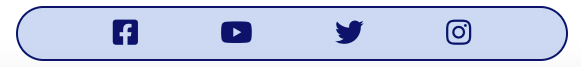
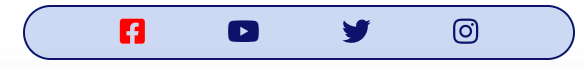
README - Finish documentation.

diff --git a/README.md b/README.md
@@ -1,6 +1,6 @@
 # The Iowa State Fair
 
-This Iowa State Fair website is intended to give Iowans, Americans and potential visitors from abroad an overview of one of the United States' most renowned agricultural events. This Midwest state boasts achievement in agriculture and industry, which my website hopes to display.
+This Iowa State Fair website is intended to give Iowans, Americans and potential visitors from abroad an overview of one of the United States' most renowned agricultural events. This Midwest state boasts achievement in agriculture and industry, which this website hopes to showcase.
 
 In three separate pages, the user will learn what the Iowa State Fair is, its location, a brief history and fun facts, and a photo gallery of Fair favorites. There is also a signup form allowing the visitor to get involved with the Iowa State Fair. I hope, as the website creator and Iowa-native, that these pages teach users a little bit about Iowa and entice them to come join the fun at the Iowa State Fair. 
 
@@ -8,14 +8,14 @@ In three separate pages, the user will learn what the Iowa State Fair is, its lo
 
 ## Features 
 
-In general terms, the features of this website serve two main purposes: to educate visitors about the Iowa State Fair and to entice them to visit. A more detailed explanation of the features is below.
+In general terms, the features of this website serve two main purposes: to educate visitors about the Iowa State Fair and to persuade them to visit. A more detailed explanation of the features is below.
 
 ### Existing Features
 
 - __Navigation Bar__
 
-  - The fully responsive navigation bar is included and identical on all three pages. Clicking each link will take the user to that page; clicking the left, Iowa State Fair text will return them to the homepage.
-  - Keeping the navigation bar the same on all pages, both in style and functionality will enable the user to navigate the pages easily and on various devices without having to click the back button or swipe left / right.
+  - The fully responsive navigation bar is included and identical on all three pages. Clicking each link will take the user to that page, while clicking the left, Iowa State Fair text will return them to the homepage.
+  - Keeping the navigation bar the same on all pages, both in style and functionality, will enable the user to browse through the pages easily and on various devices without having to click the back button or swipe left / right.
 
 ![NavBar](docs/nav_bar_mockup.png)
 
@@ -25,36 +25,36 @@ In general terms, the features of this website serve two main purposes: to educa
 
 ![LandingPage](docs/landing_page_mockup.png)
 
-- __When and Where Section
+- When and Where Section
 
   - The start of this section includes a sentence describing what, when and where the Iowa State Fair is and its importance on a state, national and international scale. 
-  - Immediately following, users can see dates and times of the 2022 Iowa State Fair as well as a short list of activities they can expect to find at the Fair. In the center, this year's Iowa State Fair logo appears to bifurcate the written information in the section.  
+  - Immediately following, users can see dates and times for the 2022 Iowa State Fair as well as a short list of activities they can expect to find at the Fair. In the center, this year's Iowa State Fair logo appears and bifurcates the written information in the section.  
 
 ![WhenWhere](docs/when_where_mockup.png)
 
 - __Location section__
 
-  - Here on a photo of the Iowa State Capitol, the user learns that the Fair takes place in Des Moines, Iowa (the capital city) and there are various modes of transport to arrive at the fairgrounds. The image is covered by an opaque shadow, thus ensuring the user is focused on the information text and not the photo. 
+  - Here on a photo of the Iowa State Capitol, the user learns that the Fair takes place in Des Moines, Iowa (the capital city) and there are various modes of transport to arrive at the fairgrounds. The image is covered by an opaque shadow, thus ensuring the user is focused on the informational text and not the photo. 
 
 ![Location](docs/location_mockup.png)
 
 - __The Footer__ 
 
   - In the footer section I've included links to four prominent social media sites for the Iowa State Fair. These are real websites that will give the user more information and the ability to follow the Iowa State Fair's social media.
-  - All links open to new tabs when clicked and turn red when hovered over, making them easily visible and user-friendly.
+  - All links open to new tabs when clicked and the icons turn red when hovered over, making them easily visible and user-friendly.
 
 ![Footer](docs/footer_mockup.png)
 
 - __History__
 
-  - The history section includes four columns: what's new, the butter cow, food on sticks and five fun facts. These different categories all provide important information for Fair-goers this year, both those returning and first-timers. 
+  - The history section includes four columns with different categories providing important information for Fair-goers this year, both those returning and first-timers. 
   - For website users that are hearing about the Iowa State Fair for the first time, this page will give them a little insight on the event. As such, there are two clickable links included in this section to give further explanation, each of which will open in a new tab. 
 
 ![History](docs/history_mockup.png)
 
 - __Get Involved Signup Form__
 
-  - The signup form includes a dropdown menu for the user to select a topic, followed by three more required fields. The final text box is for the user to detail how they would like to get involved with the Iowa State Fair in any capacity they see fit. Upon submission, a congratulatory message appears, letting the user know they have signed up successfully. The form URL was taken from the Code Institute Love Running project and aesthetically and informationally adapted for this project.
+  - The signup form includes a dropdown menu for the user to select a department, followed by three more required fields. The final text box is for the user to detail how they would like to get involved with the Iowa State Fair in any capacity they see fit. Upon submission, a congratulatory message appears, letting the user know they have signed up successfully. The form URL was taken from the Code Institute Love Running project and aesthetically and informationally adapted for this website.
 
 ![Sign Up](docs/form_mockup.png)
 
@@ -66,12 +66,14 @@ In general terms, the features of this website serve two main purposes: to educa
 
 ### Features Left to Implement
 
-- Map on Homepage: I had originally included a Google Map on the homepage, which was ultimately a casualty of media queries that I couldn't get quite right. I would like to include a map in the future as it would be a vital reference to have for anyone visiting the Iowa State Fair.
+- Map on Homepage: I had originally included a Google map on the homepage, which was ultimately a casualty of media queries that I couldn't get quite right. I would like to include a map in the future as it would be a helpful reference to have for anyone visiting the Iowa State Fair.
 - Embeded video: Another aspect of media that would be beneficial to users would be a YouTube video of some of the Iowa State Fair's events. There are a plethora of activities at the Fair and it would be more interactive to show those through video rather than written media.
 
 ## Testing 
 
-- The website itself was tested on Chrome, Safari and Firefox web browsers. It was also designed to be responsive on a range of devices with different widths. The images on the third page when using Safari on a laptop appear with more spacing than they do using Chrome. On this page, too, a slight horizontal scroll is needed on some smaller devices to view the entire image.
+- The website itself was tested on Chrome, Safari and Firefox web browsers using a laptop computer. It was also designed to be responsive on a range of devices, using the Responsive setting on Chrome DevTools to simulate sizes. 
+
+  The images on the third page when using Safari on a laptop appear with more spacing than they do using Chrome. On this page, too, a slight horizontal scroll is needed on some smaller devices to view the entire image.
 - The social media links in the footer and the two hyperlinks in the history section of the second page were tested and work correctly. All open in new tabs.
 - The signup form was tested and, when filled out and submitted correctly, returns a congratulatory message noting that completion was successful. 
 
@@ -79,9 +81,21 @@ In general terms, the features of this website serve two main purposes: to educa
 
 - At the outset of troubleshooting, the footer only appeared visible on the first page, though the information was there and interactive (clickable icons). I found this was because I hadn't linked the fontawesome script on the other pages, the website was just using the html. This is fixed now and visible on all pages.
 
-- I encountered an error when running the HTML validator on the second and third pages that stated I couldn't use unnamed sections. This was solved with help from the CI slack channels and, ultimately, with changing the section in question into a div. This will be kept in mind for future projects.
+- I encountered an error when running the HTML validator on the second and third pages that stated I couldn't use unnamed sections. This was solved with help from the CI slack channels and, ultimately, with changing the section in question into a div. This will be kept in mind for future projects. There are no errors now in the HTML validator on any of the three pages submitted.
 
-- I used metric measurements on the second page in describing the Butter Cow and in the Fun Facts sections. In a professional setting, this website's most direct audience would probably be from the United States and, therefore would better understand the imperial system but I chose to use the metric system for the benefit of the Code Institute reviewers who I assume are more familiar with metric measurements. If the website were launched in Iowa or the United States, the values would be converted.
+- I used metric measurements on the second page in describing the Butter Cow and in the Fun Facts sections. In a professional setting, this website's most direct audience would be from the United States and, therefore would probably better understand the imperial system but I chose to use the metric system for the benefit of the Code Institute reviewers who I assume are more familiar with metric measurements. If the website were launched in Iowa or the United States, the values would be converted.
+
+- To complete my testing phase, I ran each page through Lighthouse in Chrome DevTools, both desktop and mobile versions. The results are below:
+
+  Homepage (desktop and mobile)
+![Lighthouse](docs/lighthouse_index.png)
+![Lighthouse](docs/lighthouse_index_mobile.png)
+Get Involved page (desktop and mobile)
+![Lighthouse](docs/lighthouse_history.png)
+![Lighthouse](docs/lighthouse_history_mobile.png)
+Fair Photos page (desktop and mobile)
+![Lighthouse](docs/lighthouse_photos.png)
+![Lighthouse](docs/lighthouse_photos_mobile.png)
 
 
 ### Validator Testing 
@@ -101,13 +115,13 @@ To my knowledge, I have been able to identify and fix bugs that popped up throug
 
 That said, there is definitely room for improvement. Firstly, and perhaps most noticeably, with regard to the photos on the third page. 
 
-Using Safari on a laptop distorts the spacing. I chose to leave this as is because the images themselves aren't distorted. The spacing issue could be due to inadequate media queries, which would be a question of my coding ability more than a break in the web browser or technologies themselves. 
+Using Safari on a laptop distorts the spacing but I chose to leave this as-is because the images themselves aren't distorted. The spacing issue could be due to inadequate media queries, which would be a question of my coding ability more than a break in the web browser or technologies themselves. 
 
 Given that Chrome is usually the browser of choice, especially in the tech industry, I concentrated on ensuring the website was fully functional and aesthetically pleasing there before I focused on other browswers. As such, I've left the images as the appear with no annexed documentation for Safari. 
 
-Secondly, the photo in the landing section of the homepage might look a little blurry or pixilated. I deliberately chose and image that was slightly unclear and with more muted colors since I wasn't planning on overlaying an opacity as I do in other sections where text is over a photo. 
+Secondly, the photo in the landing section of the homepage might look a little blurry or pixilated. I deliberately chose an image that was slightly unclear and with more muted colors since I wasn't planning on overlaying an opacity as I do in other sections where text is over a photo. 
 
-This way, I would argue that the first glance is still bright and enticing but doesn't distract from the "Come to Des Moines, IA & Join the Fun!" bubble. At first glance, I wanted to engage the reader and urge them to investigate further.
+This way, I would argue that the first glance is still bright and alluring but doesn't distract from the "Come to Des Moines, IA & Join the Fun!" bubble. From the start, I wanted to engage the reader and urge them to investigate further.
 
 Thirdly, I am sure my CSS could be more concise. There are many aspects (margins, padding, etc.) that are the same in a few classes or ids with only one or two differences. If I can consolidate the similarities in the future, the code might be more readable and "cleaner".
 
@@ -122,7 +136,7 @@ I deployed this website to GitHub pages on the GitHub hosting platform following
 
   - Once in my personal GitHub repository for this project, I clicked the Settings cog button.
   - From there I clicked 'Pages' from the left side menu. 
-  - Next under 'Source' I selected the main branch and refreshed the page and a link to the live site was provided, indicating successful deployment.
+  - Next under 'Source' I selected the main branch,  refreshed the page and a link to the live site was provided, indicating successful deployment.
 
   ![Deployment](docs/github_pages_mockup.png)
 
@@ -131,21 +145,20 @@ The live link can be found here - https://kaylaesmith1.github.io/ia-state-fair-h
 
 
 ## Credits 
-
-In this section you need to reference where you got your content, media and extra help from. It is common practice to use code from other repositories and tutorials, however, it is important to be very specific about these sources to avoid plagiarism. 
-
-You can break the credits section up into Content and Media, depending on what you have included in your project. 
-
 ### Content 
 
-- The text for the Home page was taken from Wikipedia Article A
-- Instructions on how to implement form validation on the Sign Up page was taken from [Specific YouTube Tutorial](https://www.youtube.com/)
-- The icons in the footer were taken from [Font Awesome](https://fontawesome.com/)
+- I would like to acknowledge the Iowa State Fair and credit the organization with the color scheme, photos,logo, and information displayed on this website. I do not own any of the content; this website was created strictly for educational purposes within the Code Institute project framework.
+
+- I would like to thank my mentor, Harry, and other students and alumni on slack for the pointers and valuable feedback they've given me throughout this process. I've learned some excellent tips and their support has been vital in being able to submit my first portfolio project.
+
+- The social media icons found in the footer were taken from [Font Awesome](https://fontawesome.com/)
+
+- I used Stack Overflow for general troubleshooting and, specifically, the background image opacity / repeat options.
+
+- The congratulatory pop-up that appears on the Get Involved page after filling out the form is also a product of Code Institute and was used solely to ensure the form worked correctly.
+
+- Lastly, I would like to credit Code Institute for my use of the zoom effect on the homepage. This code was taken from the Love Running walkthrough project and used for the same effect on this webpage. 
 
 ### Media
 
-- The photos used on the home and sign up page are from This Open Source site
-- The images used for the gallery page were taken from this other open source site
-
-
-Congratulations on completing your Readme, you have made another big stride in the direction of being a developer! 
+- The photos used on this website are from the [Iowa State Fair website](https://iowastatefair.org) and a Google search of 'Iowa State Fair'.
